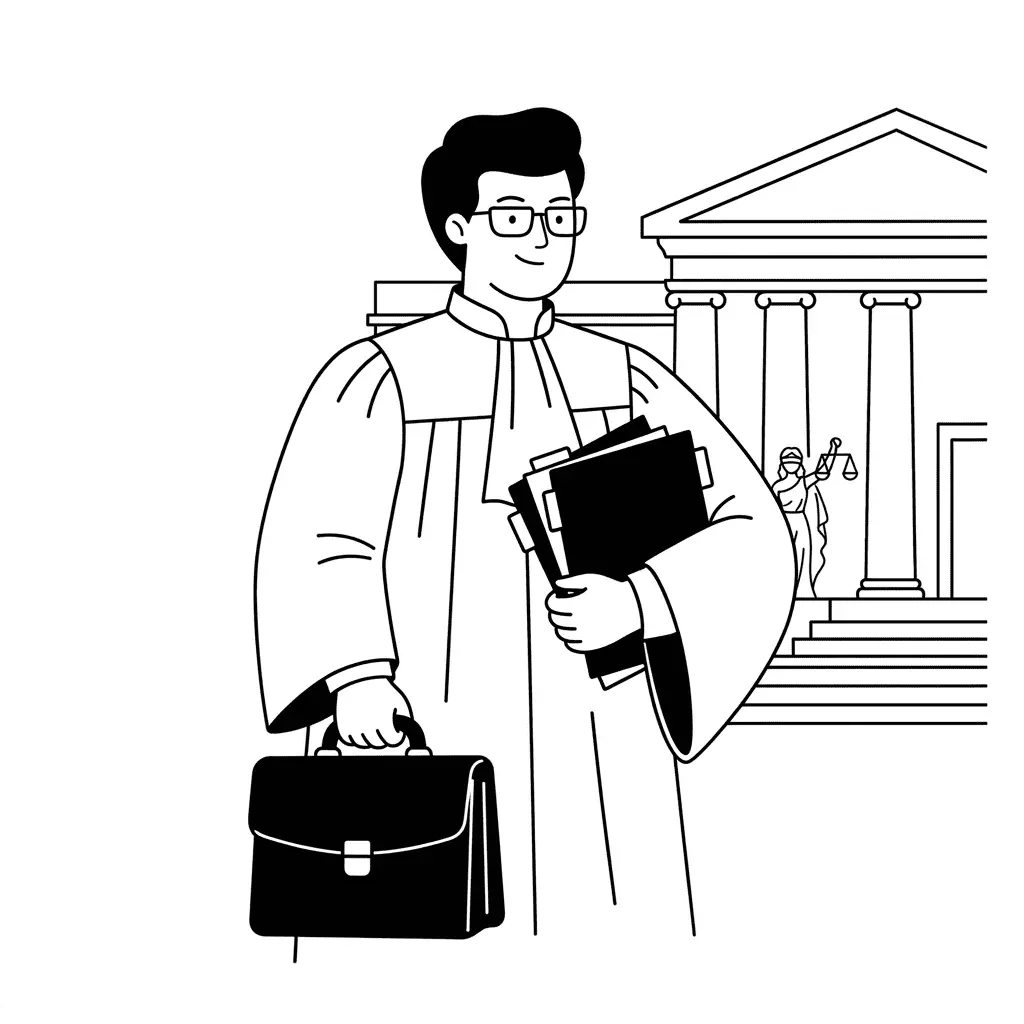
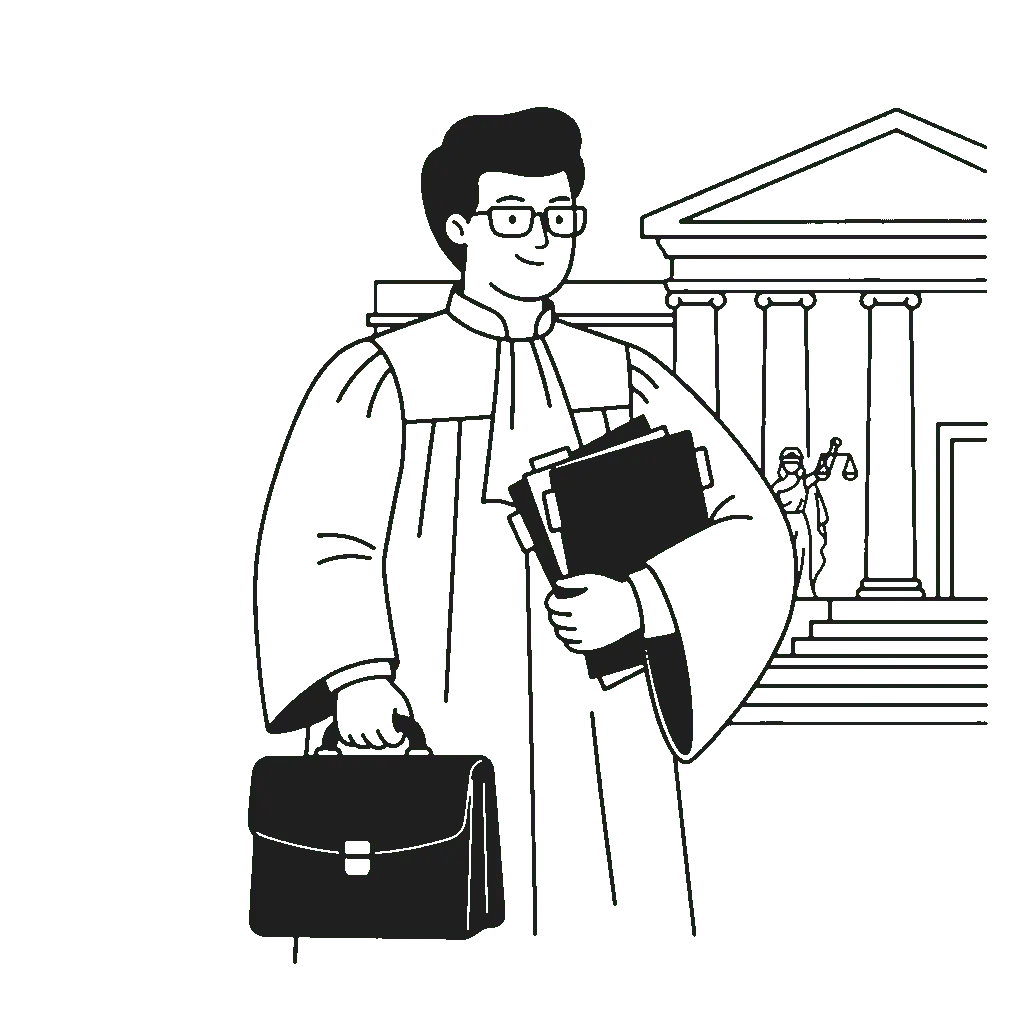
Update navActeurs menu in all Acteurs pages with Professions libérales

diff --git a/app/citoyens/page.tsx b/app/citoyens/page.tsx
@@ -8,9 +8,10 @@ import { Footer } from '@/components/layout/Footer'
 
 const navActeurs = [
   { label: 'Entreprises', href: '/entreprises' },
-  { label: 'Pouvoirs publics', href: '/pouvoirs-publics' },
-  { label: 'Education', href: '/education' },
+  { label: 'Collectivités et administrations', href: '/pouvoirs-publics' },
+  { label: 'Écoles, CFA, Universités', href: '/education' },
   { label: 'Industries créatives', href: '/secteurs-creatifs' },
+  { label: 'Professions libérales', href: '/professions-liberales' },
   { label: 'Grand public', href: '/citoyens' },
 ]
 

diff --git a/app/education/page.tsx b/app/education/page.tsx
@@ -11,6 +11,7 @@ const navActeurs = [
   { label: 'Collectivités et administrations', href: '/pouvoirs-publics' },
   { label: 'Écoles, CFA, Universités', href: '/education' },
   { label: 'Industries créatives', href: '/secteurs-creatifs' },
+  { label: 'Professions libérales', href: '/professions-liberales' },
   { label: 'Grand public', href: '/citoyens' },
 ]
 

diff --git a/app/entreprises/page.tsx b/app/entreprises/page.tsx
@@ -26,6 +26,7 @@ const navActeurs = [
   { label: 'Collectivités et administrations', href: '/pouvoirs-publics' },
   { label: 'Écoles, CFA, Universités', href: '/education' },
   { label: 'Industries créatives', href: '/secteurs-creatifs' },
+  { label: 'Professions libérales', href: '/professions-liberales' },
   { label: 'Grand public', href: '/citoyens' },
 ]
 

diff --git a/app/pouvoirs-publics/page.tsx b/app/pouvoirs-publics/page.tsx
@@ -18,6 +18,7 @@ const navActeurs = [
   { label: 'Collectivités et administrations', href: '/pouvoirs-publics' },
   { label: 'Écoles, CFA, Universités', href: '/education' },
   { label: 'Industries créatives', href: '/secteurs-creatifs' },
+  { label: 'Professions libérales', href: '/professions-liberales' },
   { label: 'Grand public', href: '/citoyens' },
 ]
 

diff --git a/app/secteurs-creatifs/page.tsx b/app/secteurs-creatifs/page.tsx
@@ -16,6 +16,7 @@ const navActeurs = [
   { label: 'Collectivités et administrations', href: '/pouvoirs-publics' },
   { label: 'Écoles, CFA, Universités', href: '/education' },
   { label: 'Industries créatives', href: '/secteurs-creatifs' },
+  { label: 'Professions libérales', href: '/professions-liberales' },
   { label: 'Grand public', href: '/citoyens' },
 ]
 
